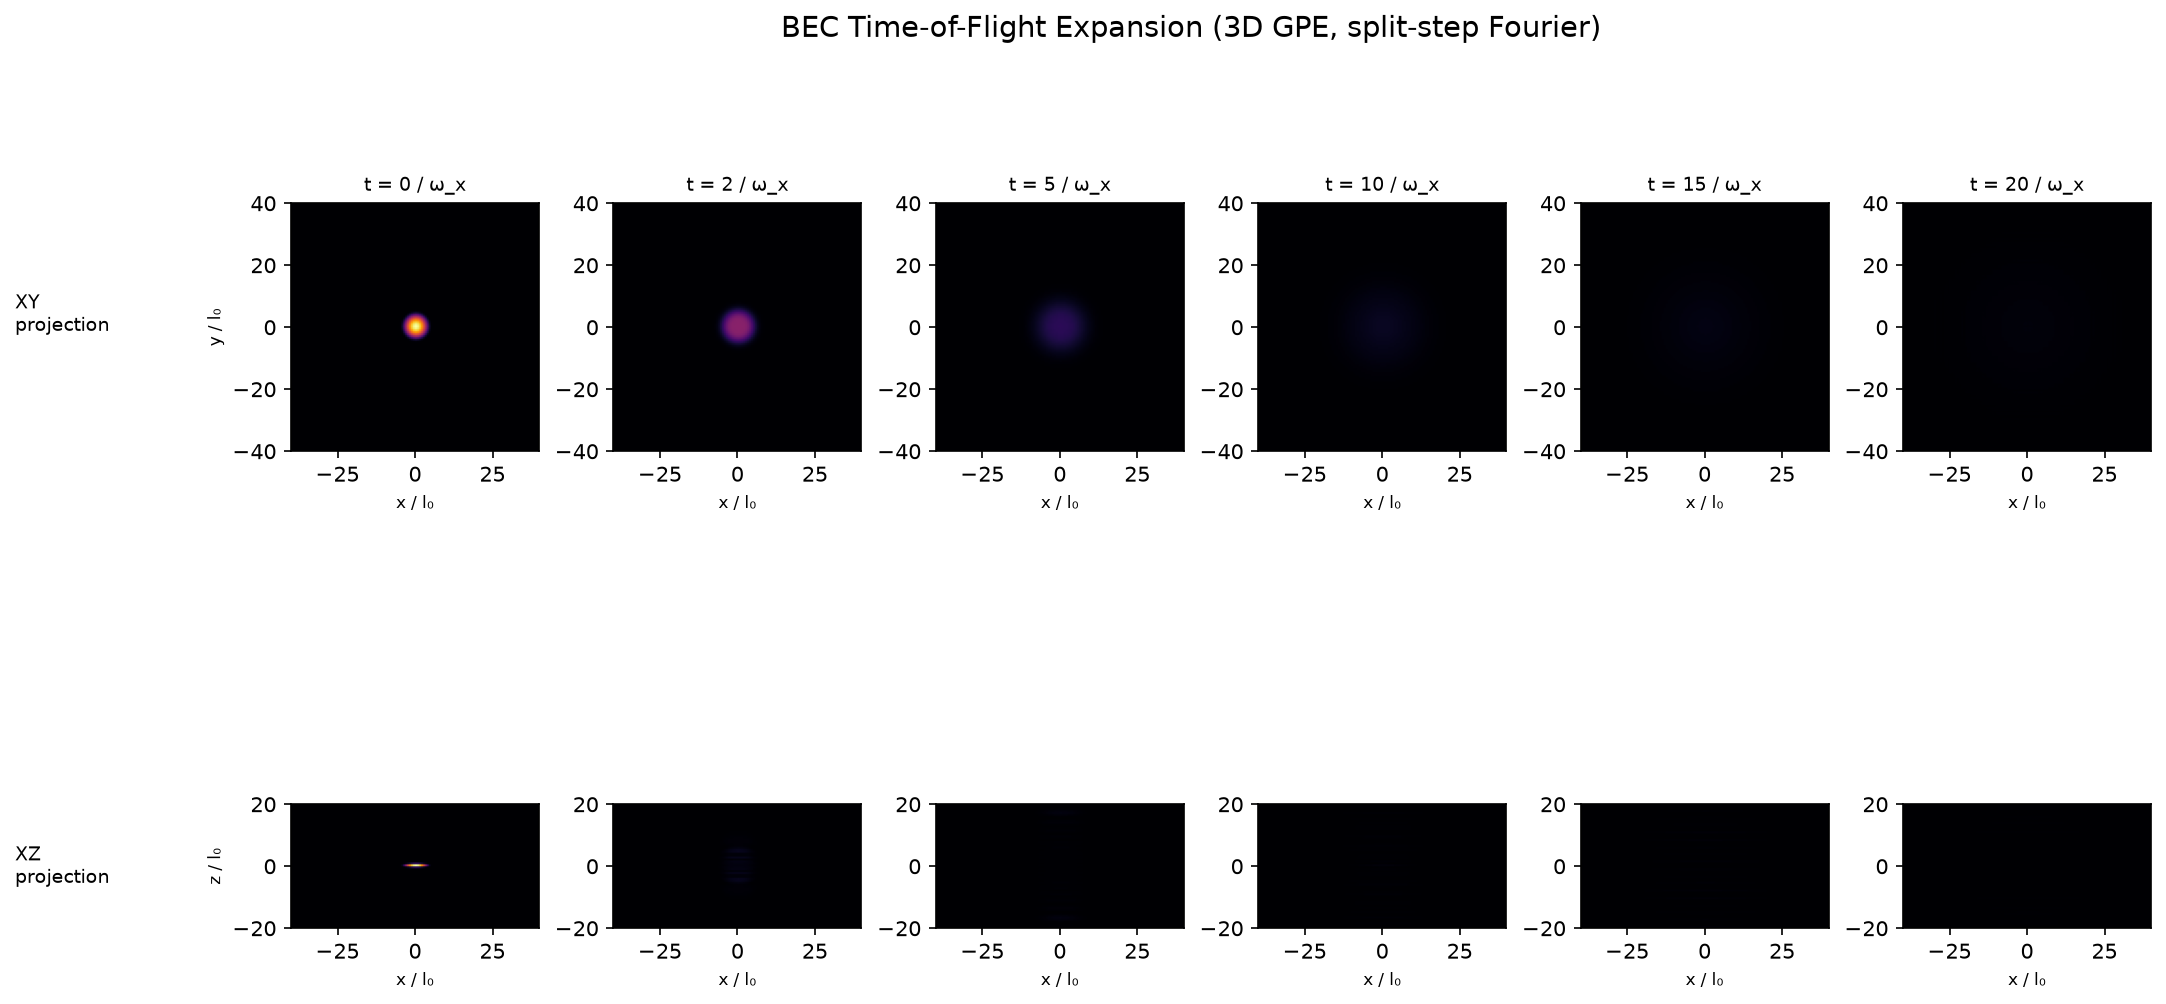
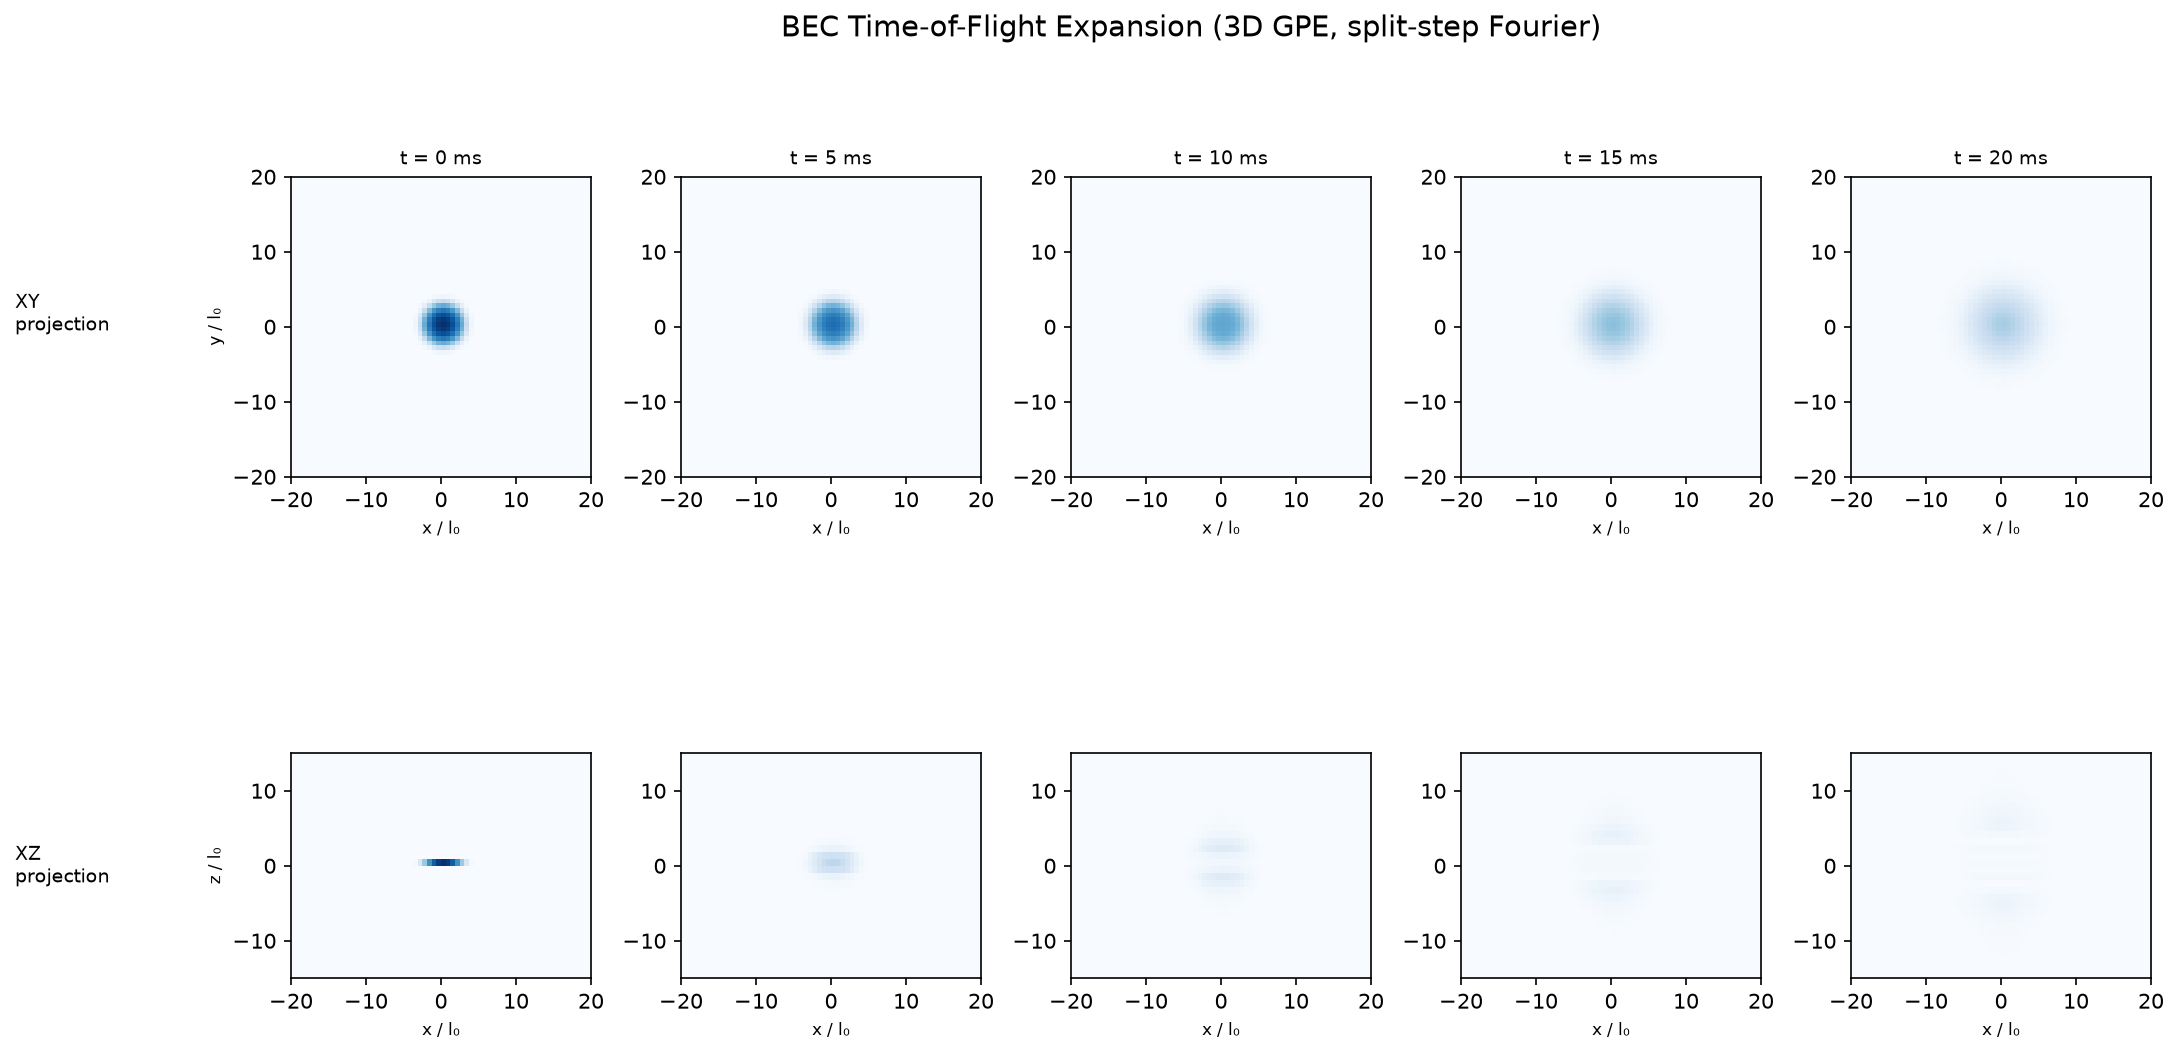
Fix snapshot timing and reduce box size for 20 ms TOF

diff --git a/gpe_tof.py b/gpe_tof.py
@@ -48,8 +48,8 @@ a_s      = 5.2e-9                          # s-wave scattering length (m), 87Rb
 g3D      = 4 * np.pi * (a_s / a_ho)       # dimensionless coupling
 
 # ── Grid ─────────────────────────────────────────────────────────────────────
-Nx, Ny, Nz = 128, 128, 64         # grid points (keep powers of 2 for FFT)
-Lx, Ly, Lz = 40.0, 40.0, 20.0   # box half-widths in l0 — large enough for TOF=20
+Nx, Ny, Nz = 64, 64, 32           # grid points (keep powers of 2 for FFT)
+Lx, Ly, Lz = 20.0, 20.0, 15.0   # box half-widths in l0 — sufficient for 20 ms TOF
 
 x = np.linspace(-Lx, Lx, Nx, endpoint=False)
 y = np.linspace(-Ly, Ly, Ny, endpoint=False)
@@ -126,23 +126,21 @@ print("Running time-of-flight expansion...")
 dt_real = 0.005                         # real-time step (1/omega_x)
 kin_real = kinetic_propagator(dt_real)
 
-save_times_ms = [0, 5, 10, 15, 20]                      # snapshots in ms
+save_times_ms = [0, 5, 10, 15, 20]                         # snapshots in ms
 save_times = [t_ms / t_unit_ms for t_ms in save_times_ms]  # convert to dimensionless
-t_tof_max   = max(save_times)
-n_tof_steps = int(t_tof_max / abs(dt_real))
+save_steps = {int(round(ts / abs(dt_real))): t_ms
+              for ts, t_ms in zip(save_times, save_times_ms)}
+n_tof_steps = max(save_steps.keys())   # run exactly to the last snapshot step
 snapshots   = {}
 
 psi = psi_gs.copy()
 V_off = np.zeros_like(V_trap)           # trap is OFF during TOF
 
 # Convert save_times to nearest step indices to avoid floating-point misses
-save_steps = {int(round(ts / abs(dt_real))): (ts, t_ms)
-              for ts, t_ms in zip(save_times, save_times_ms)}
-
 for step in range(n_tof_steps + 1):
     if step in save_steps:
-        ts, t_ms = save_steps[step]
-        snapshots[ts] = np.abs(psi)**2
+        t_ms = save_steps[step]
+        snapshots[t_ms] = np.abs(psi)**2
         print(f"  saved snapshot at t = {t_ms} ms")
     if step < n_tof_steps:
         psi = ssfm_step(psi, dt_real, V_off, g3D, kin_real)
@@ -153,12 +151,12 @@ print("\nPlotting...")
 fig = plt.figure(figsize=(16, 8))
 fig.suptitle("BEC Time-of-Flight Expansion (3D GPE, split-step Fourier)", fontsize=14)
 
-gs = GridSpec(2, len(save_times), figure=fig, hspace=0.4, wspace=0.3)
+gs = GridSpec(2, len(save_times_ms), figure=fig, hspace=0.4, wspace=0.3)
 
-vmax_xy = max(snapshots[t].sum(axis=2).max() * dz for t in save_times)
-vmax_xz = max(snapshots[t].sum(axis=1).max() * dy for t in save_times)
+vmax_xy = max(snapshots[t].sum(axis=2).max() * dz for t in save_times_ms)
+vmax_xz = max(snapshots[t].sum(axis=1).max() * dy for t in save_times_ms)
 
-for col, t_snap in enumerate(save_times):
+for col, t_snap in enumerate(save_times_ms):
     n3d = snapshots[t_snap]
 
     # XY projection (integrate over z)
